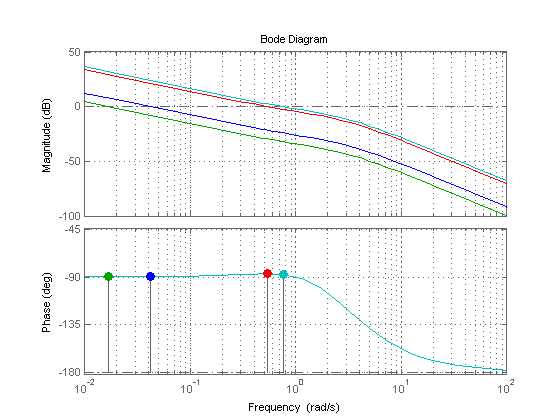
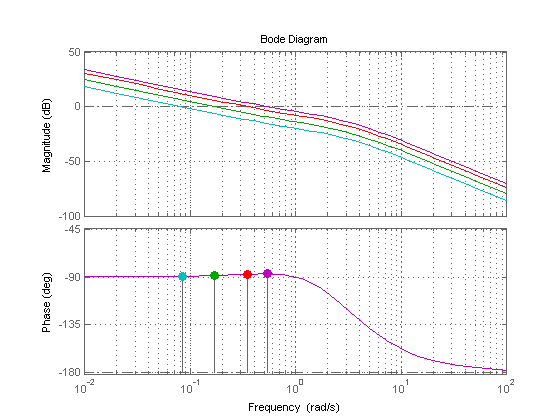
Completed q3a code and assets

diff --git a/Lab1/code/Q3a.m b/Lab1/code/Q3a.m
@@ -1,0 +1,7 @@
+k = 150;
+p = [k*1 k*1];
+q = [1 5 6 0];
+tp = tf(p,q);
+bode(tp)
+tp = tp/(1+tp);
+step(tp)

diff --git a/Lab1/code/Q1l.m b/Lab1/code/Q1l.m
@@ -1,0 +1,4 @@
+k = 2;
+num = k*0.002;
+den = [0.01 0.00104 0.002*k];
+step(tf(num, den))

diff --git a/Lab1/code/Q3.m b/Lab1/code/Q3.m
@@ -1,0 +1,6 @@
+p = [1 1];
+q = [1 5 6 0];
+sys = tf(p,q);
+bode(sys)
+grid on
+hold on

diff --git a/Lab1/code/Q2.m b/Lab1/code/Q2.m
@@ -1,0 +1,4 @@
+p = [1 1];
+q = [1 5 6 0];
+sys = tf(p,q);
+rlocus(sys)
